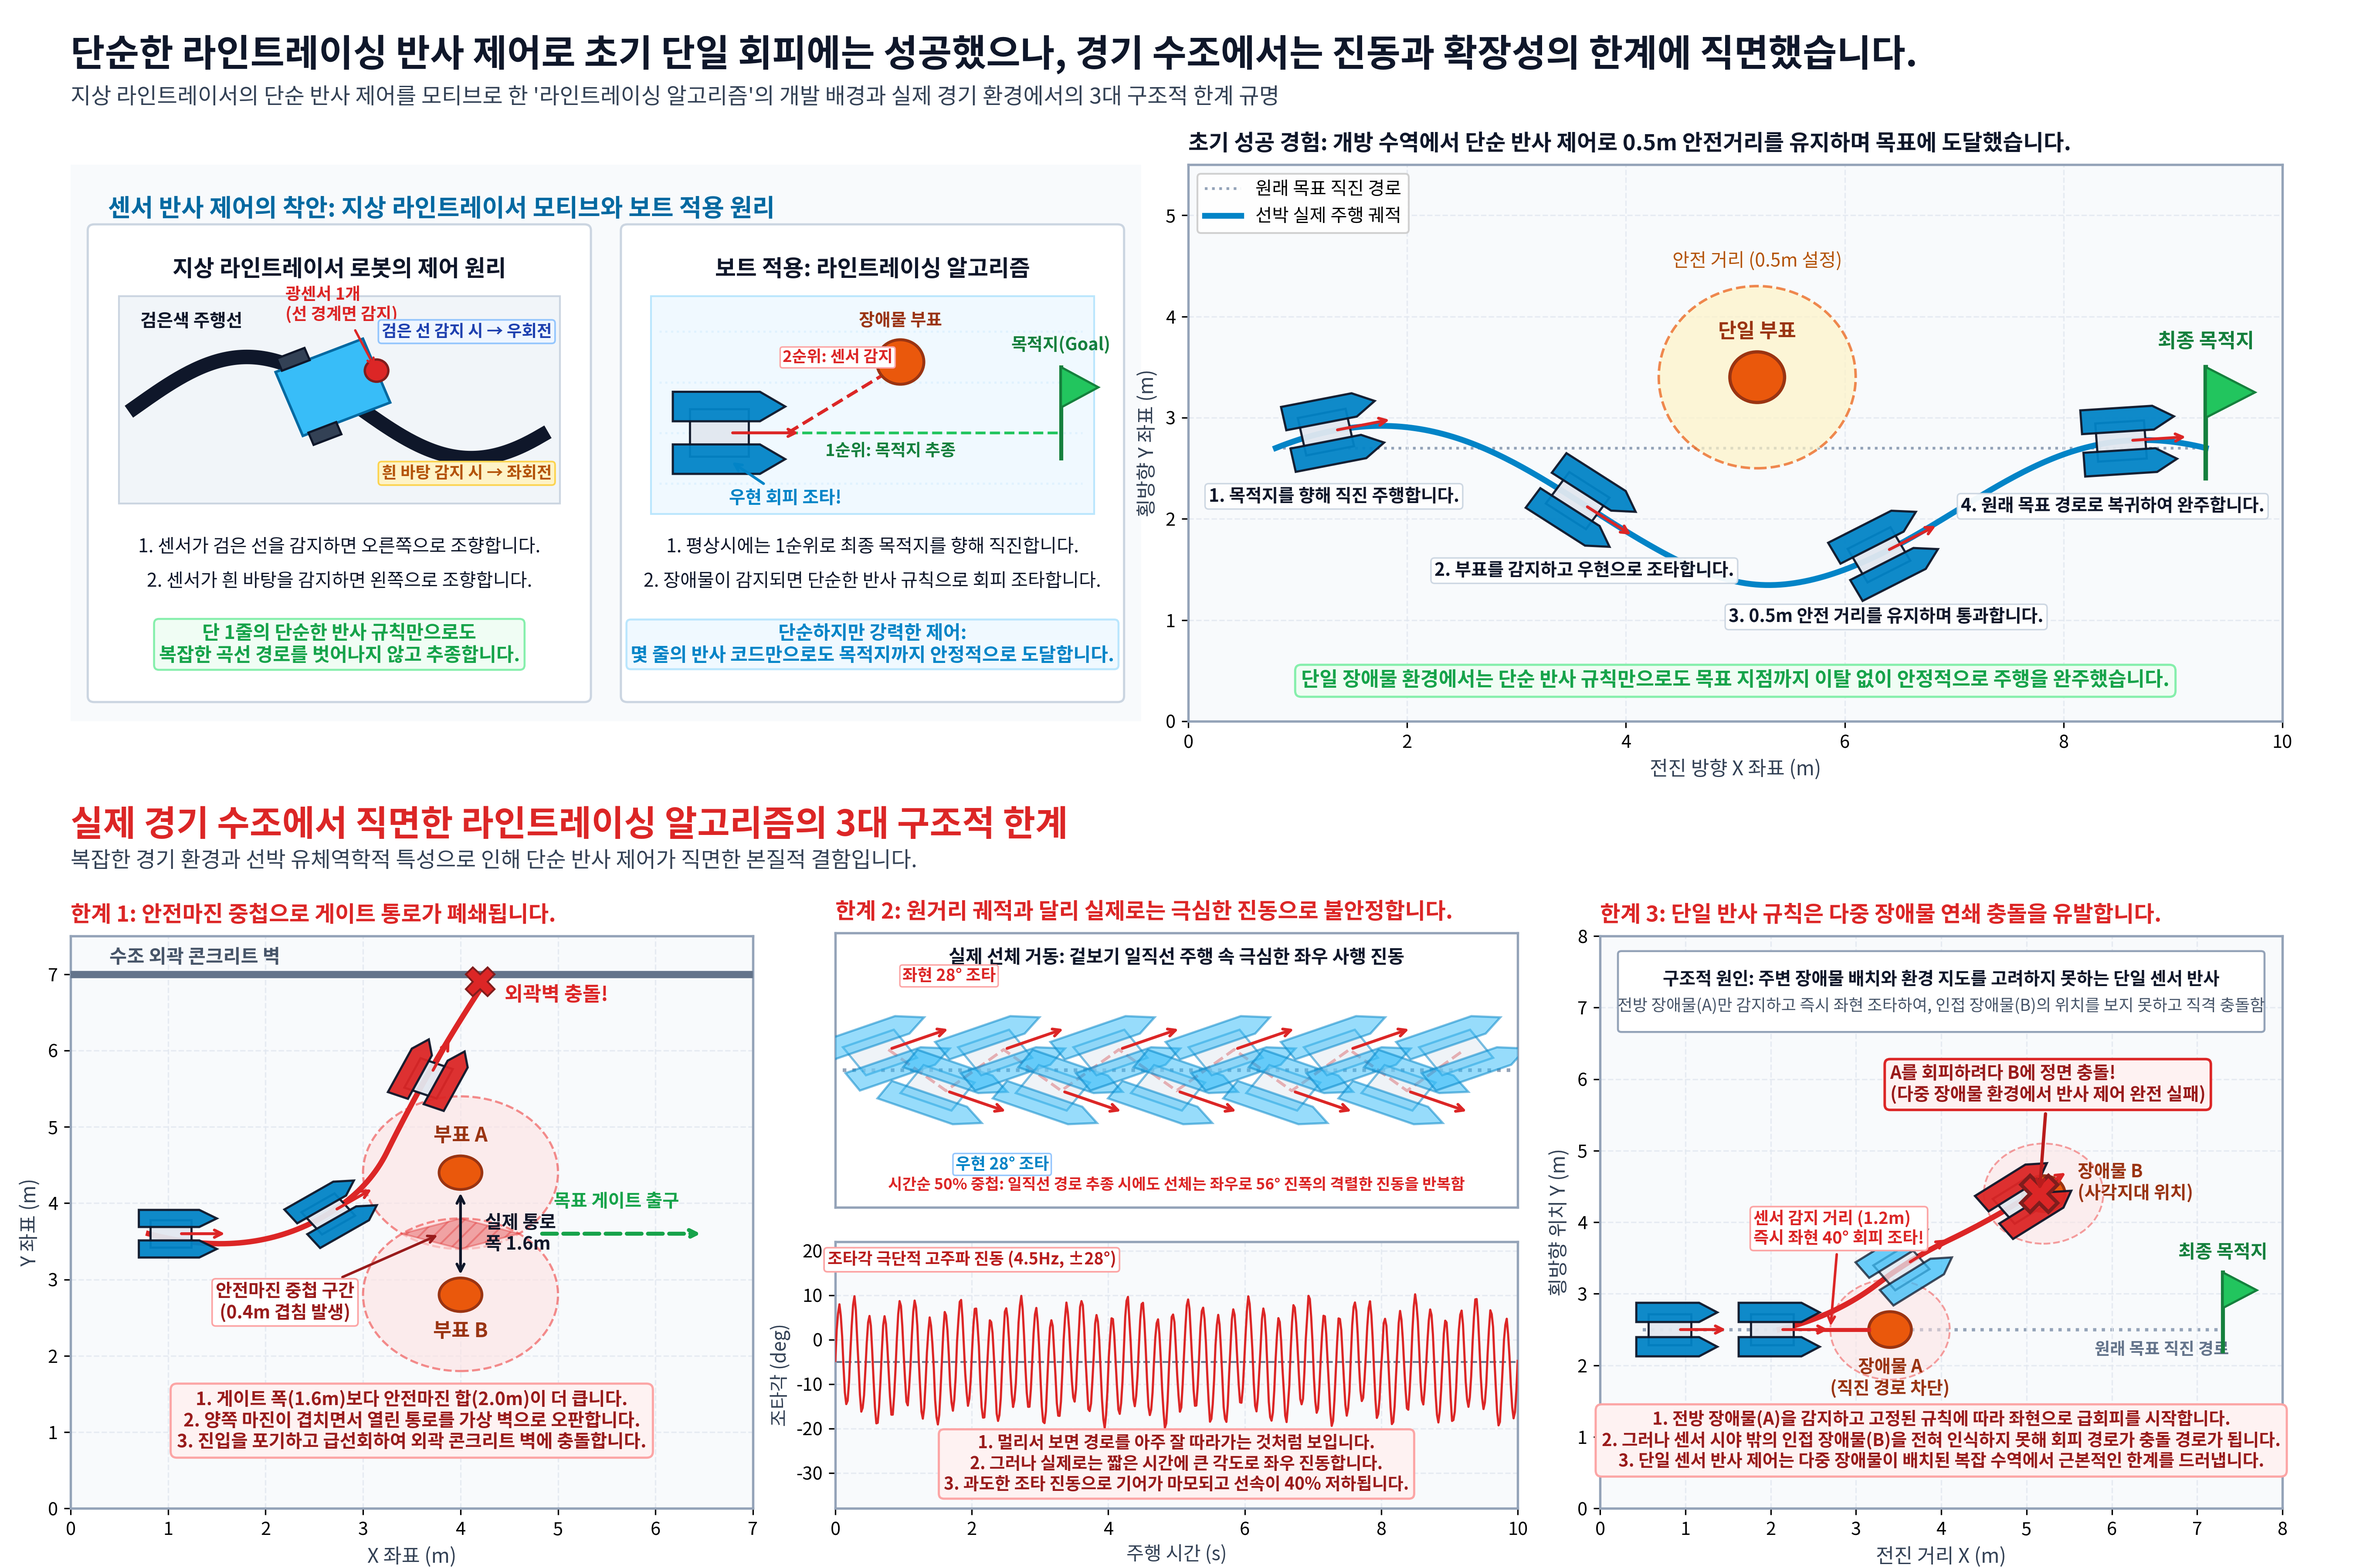
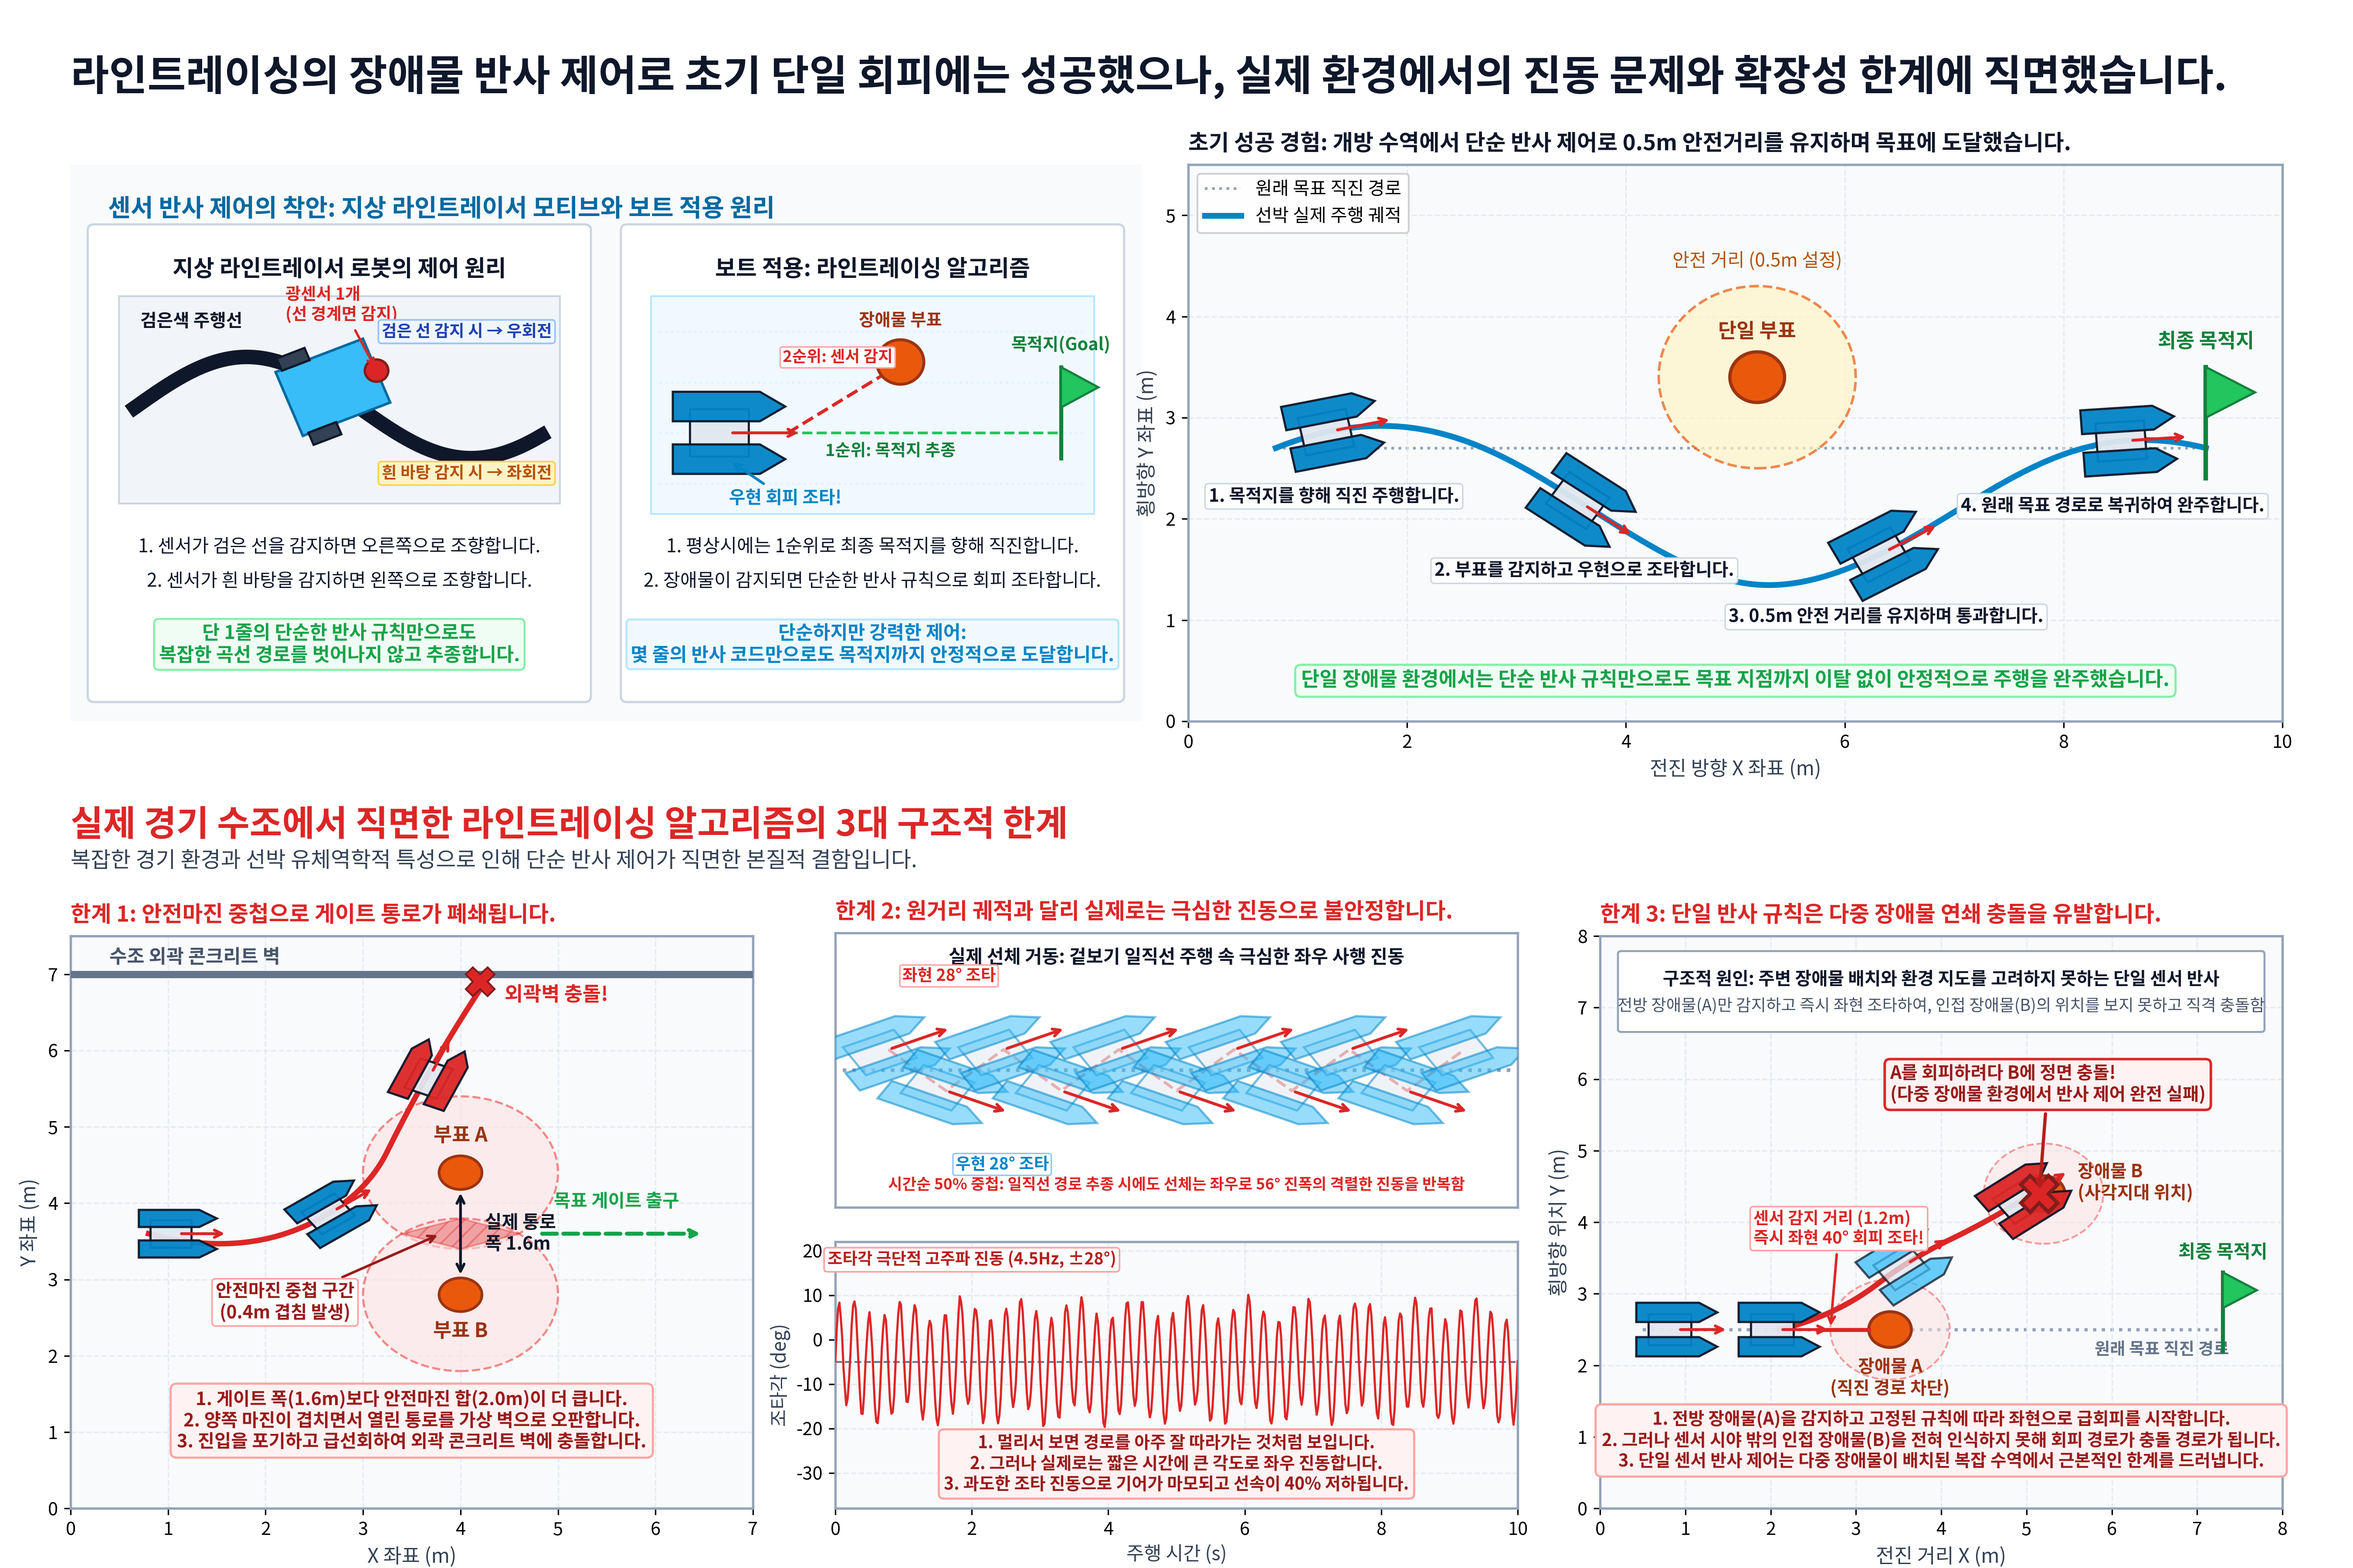
feat(sheet1): enlarge single headline and refine core summary wording

Changed region(s): [[0.0311, 0.0, 0.9333, 0.0622]]

diff --git a/report4/generate_sheet1_master.py b/report4/generate_sheet1_master.py
@@ -560,10 +560,9 @@ def generate_sheet_1():
     # --------------------------------------------------------------------------
     # TOP MASTER HEADLINE (Prominent single-sentence summary, Strictly 1 line!)
     # --------------------------------------------------------------------------
-    fig.text(0.030, 0.978, "단순한 라인트레이싱 반사 제어로 초기 단일 회피에는 성공했으나, 경기 수조에서는 진동과 확장성의 한계에 직면했습니다.", 
-             fontsize=20.5, fontweight='bold', color=COLOR_TEXT_MAIN, va='top')
-    fig.text(0.030, 0.945, "지상 라인트레이서의 단순 반사 제어를 모티브로 한 '라인트레이싱 알고리즘'의 개발 배경과 실제 경기 환경에서의 3대 구조적 한계 규명", 
-             fontsize=12.2, color=COLOR_TEXT_SUB, va='top')
+    fig.text(0.030, 0.965, "라인트레이싱의 장애물 반사 제어로 초기 단일 회피에는 성공했으나, 실제 환경에서의 진동 문제와 확장성 한계에 직면했습니다.", 
+             fontsize=23.0, fontweight='bold', color=COLOR_TEXT_MAIN, va='top')
+
     
     # --------------------------------------------------------------------------
     # SUBPLOT 1: 라인트레이서 vs 자율운항보트 개념 (left: 0.030 ~ 0.485, bottom: 0.540 ~ 0.895, height: 0.355)
